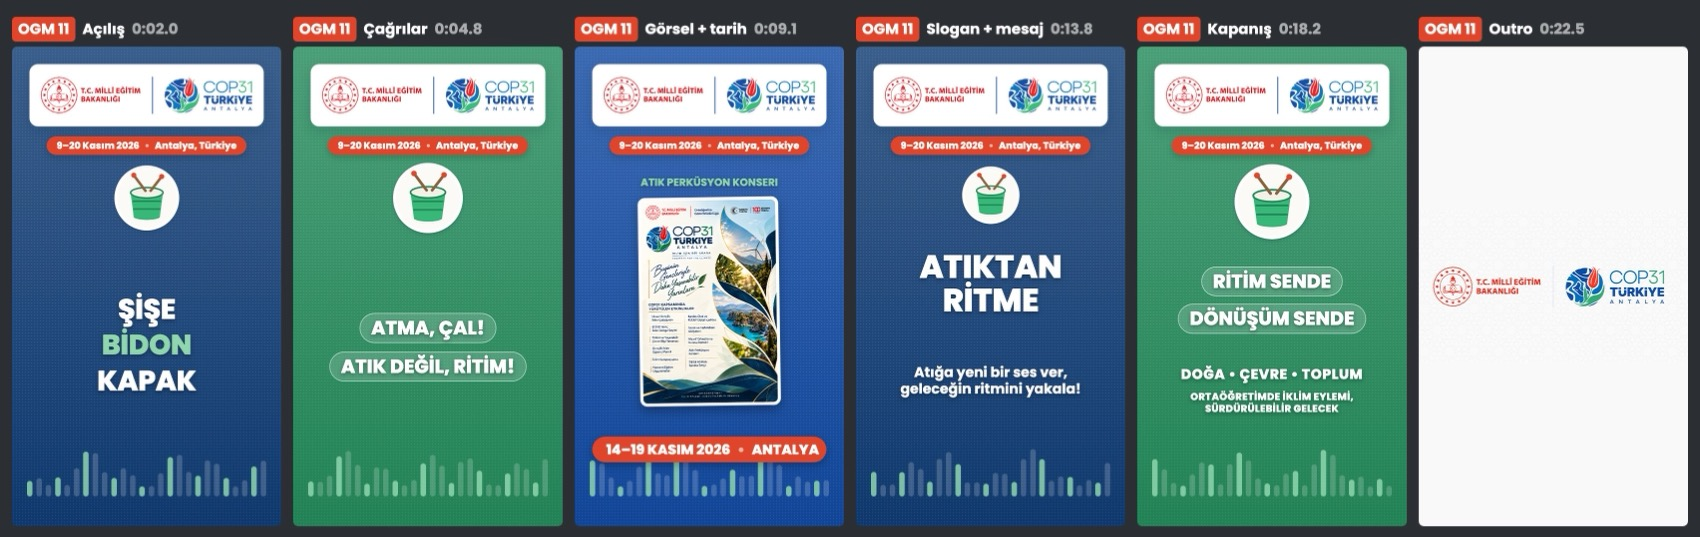
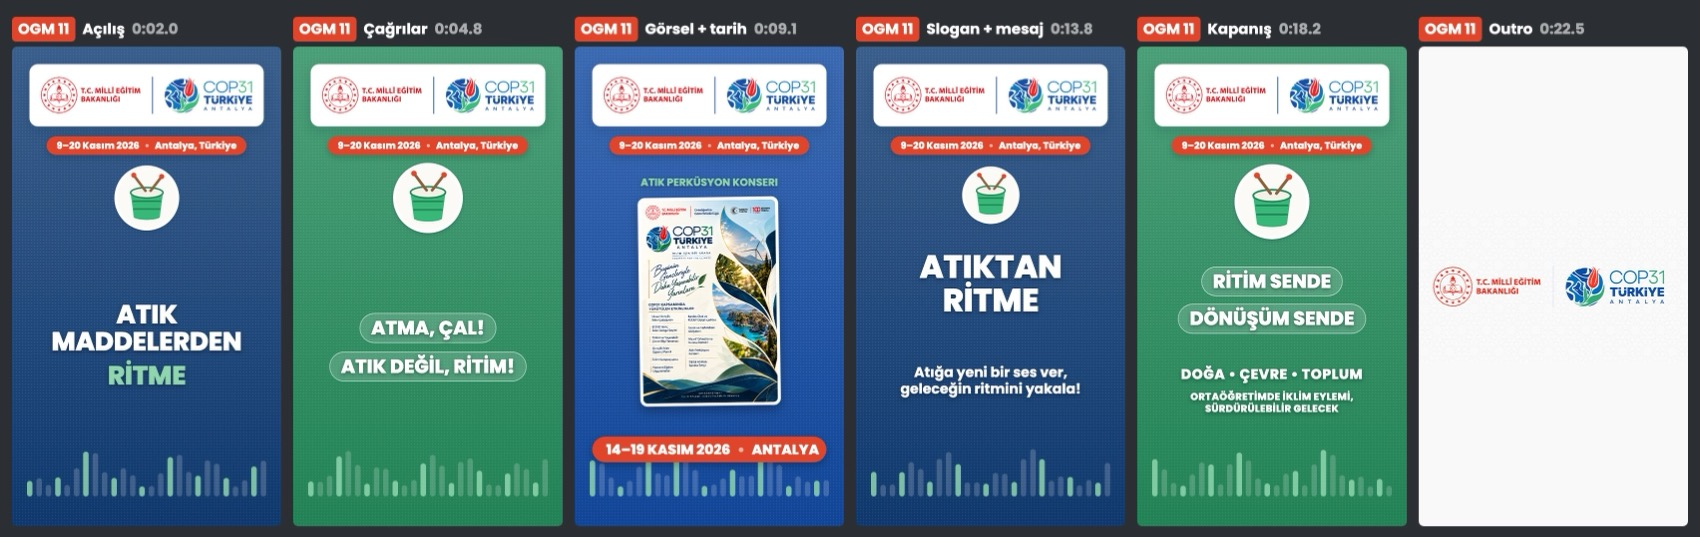
OGM 1. revizesi: 2,4,5,6,7,8,9,11,12 metin ve tarih düzeltmeleri

Changed region(s): [[0.0312, 0.5363, 0.1559, 0.7449]]

diff --git a/index.html b/index.html
@@ -101,14 +101,14 @@ button, .wa { border:0; border-radius:10px; padding:12px 16px; font:inherit; fon
   <div class="resim"><a href="paftalar/pafta-2.jpg" target="_blank" rel="noopener"><img src="paftalar/pafta-2.jpg" alt="2 · TABIAT VE YAŞANABILIR ÇEVRE KULÜBÜ — altı an" loading="lazy"></a></div>
   <p class="aciklama">Soldan sağa: açılış, çağrılar, görsel ve tarih, slogan ve mesaj, kapanış, logolar. Büyütmek için görsele tıklayın.<span class="kaydir"> Görseli yana kaydırabilirsiniz.</span></p>
   <ol>
-    <li>Açılış: YENİ KULÜP • TÜM OKULLARIMIZDA</li>
+    <li>Açılış: YENİDEN YAPILANDIRILMIŞ KULÜP • TÜM OKULLARIMIZDA</li>
     <li>Çağrılar: KATIL! • HAREKETE GEÇ!</li>
     <li>Görsel: Kulüp tanıtım görseli veya okul kulüp etkinliklerinden fotoğraflar — <b>klasörde bu etkinliğin afişi olmadığından genel COP31 OGM afişi kullanıldı</b>; tarih bandı: 9–20 KASIM 2026 • ANTALYA, TÜRKİYE</li>
     <li>Ana slogan: OKULDAN DOĞAYA; ekran mesajı: Okulunda başla, doğa için harekete geç!</li>
     <li>Kapanış: ADIM SENDE / DOĞA SENDE + “DOĞA • ÇEVRE • TOPLUM”</li>
     <li>MEB ve COP31 logoları</li>
   </ol>
-  <div class="ses"><b>Seslendirme metni</b>Yeni kulüp, tüm okullarımızda! Katıl! Harekete geç! Dokuz - yirmi Kasım iki bin yirmi altı, Antalya, Türkiye. Okuldan doğaya! Okulunda başla, doğa için harekete geç! Adım sende, doğa sende!</div>
+  <div class="ses"><b>Seslendirme metni</b>Yeniden yapılandırılmış kulüp, tüm okullarımızda! Katıl! Harekete geç! Dokuz - yirmi Kasım iki bin yirmi altı, Antalya, Türkiye. Okuldan doğaya! Okulunda başla, doğa için harekete geç! Adım sende, doğa sende!</div>
   <div class="karar">
     <label class="sec onay"><input type="radio" id="k2o" name="k2" value="onay"> Onaylıyorum</label>
     <label class="sec duz"><input type="radio" id="k2d" name="k2" value="duzeltme"> Düzeltme istiyorum</label>
@@ -144,11 +144,11 @@ button, .wa { border:0; border-radius:10px; padding:12px 16px; font:inherit; fon
     <li>Açılış: OKUL OKULA • EL ELE</li>
     <li>Çağrılar: PAYLAŞ! • ÖRNEK OL!</li>
     <li>Görsel: Kardeş okul etkinlik fotoğrafları ve KÜDEP dijital içerik ekran görüntüleri; tarih bandı: 9–20 KASIM 2026 • ANTALYA, TÜRKİYE</li>
-    <li>Ana slogan: BİRLİKTE ÖĞREN, BİRLİKTE KORU; ekran mesajı: Okullar buluşsun, doğa için dayanışma büyüsün! / Dijitalde öğren, yaşamda uygula, çevrene örnek ol!</li>
+    <li>Ana slogan: BİRLİKTE ÖĞREN, BİRLİKTE KORU; ekran mesajı: Uluslararası okullar buluşsun, doğa için dayanışma büyüsün! / Dijitalde öğren, yaşamda uygula, çevrene örnek ol!</li>
     <li>Kapanış: DAYANIŞMA SENDE / ÖRNEK SENDE + “DOĞA • ÇEVRE • TOPLUM”</li>
     <li>MEB ve COP31 logoları</li>
   </ol>
-  <div class="ses"><b>Seslendirme metni</b>Okul okula, el ele! Paylaş! Örnek ol! Dokuz - yirmi Kasım iki bin yirmi altı, Antalya, Türkiye. Birlikte öğren, birlikte koru! Okullar buluşsun, doğa için dayanışma büyüsün! Dijitalde öğren, yaşamda uygula, çevrene örnek ol! Dayanışma sende, örnek sende!</div>
+  <div class="ses"><b>Seslendirme metni</b>Okul okula, el ele! Paylaş! Örnek ol! Dokuz - yirmi Kasım iki bin yirmi altı, Antalya, Türkiye. Birlikte öğren, birlikte koru! Uluslararası okullar buluşsun, doğa için dayanışma büyüsün! Dijitalde öğren, yaşamda uygula, çevrene örnek ol! Dayanışma sende, örnek sende!</div>
   <div class="karar">
     <label class="sec onay"><input type="radio" id="k4o" name="k4" value="onay"> Onaylıyorum</label>
     <label class="sec duz"><input type="radio" id="k4d" name="k4" value="duzeltme"> Düzeltme istiyorum</label>
@@ -161,14 +161,14 @@ button, .wa { border:0; border-radius:10px; padding:12px 16px; font:inherit; fon
   <div class="resim"><a href="paftalar/pafta-5.jpg" target="_blank" rel="noopener"><img src="paftalar/pafta-5.jpg" alt="5 · TABIAT VE YAŞANABILIR ÇEVRE BILGI YARIŞMASI — altı an" loading="lazy"></a></div>
   <p class="aciklama">Soldan sağa: açılış, çağrılar, görsel ve tarih, slogan ve mesaj, kapanış, logolar. Büyütmek için görsele tıklayın.<span class="kaydir"> Görseli yana kaydırabilirsiniz.</span></p>
   <ol>
-    <li>Açılış: BÖLGEDEN FİNALE • 4 KİŞİLİK TAKIMLAR</li>
-    <li>Çağrılar: TABİATI TANI! • YARINI KORU!</li>
+    <li>Açılış: TABİATI TANI!</li>
+    <li>Çağrılar: YARINI KORU!</li>
     <li>Görsel: Yarışma afişi; varsa bölge aşamalarından fotoğraflar; tarih bandı: 18 KASIM 2026 • FİNAL • ANTALYA</li>
     <li>Ana slogan: BİLGİYLE KORUNAN TABİAT; ekran mesajı: Bilginle yarış, doğanın geleceğine sahip çık!</li>
     <li>Kapanış: BİLGİ SENDE / YARIN SENDE + “DOĞA • ÇEVRE • TOPLUM”</li>
     <li>MEB ve COP31 logoları</li>
   </ol>
-  <div class="ses"><b>Seslendirme metni</b>Bölgeden finale, dört kişilik takımlar! Tabiatı tanı! Yarını koru! On sekiz Kasım iki bin yirmi altı, final, Antalya. Bilgiyle korunan tabiat! Bilginle yarış, doğanın geleceğine sahip çık! Bilgi sende, yarın sende!</div>
+  <div class="ses"><b>Seslendirme metni</b>Tabiatı tanı! Yarını koru! On sekiz Kasım iki bin yirmi altı, final, Antalya. Bilgiyle korunan tabiat! Bilginle yarış, doğanın geleceğine sahip çık! Bilgi sende, yarın sende!</div>
   <div class="karar">
     <label class="sec onay"><input type="radio" id="k5o" name="k5" value="onay"> Onaylıyorum</label>
     <label class="sec duz"><input type="radio" id="k5d" name="k5" value="duzeltme"> Düzeltme istiyorum</label>
@@ -176,9 +176,9 @@ button, .wa { border:0; border-radius:10px; padding:12px 16px; font:inherit; fon
   <textarea id="n5" name="n5" placeholder="Not (isteğe bağlı)"></textarea>
   <div class="yanitlar" id="y5"></div>
 </section>
-<section class="icerik" id="v6" data-no="6" data-ad="GENÇLIK İKLIM ÖĞRENCI PANELI VE İKLIM SEMPOZYUMU">
-  <div class="bas"><span class="no">6</span><div><h2>GENÇLIK İKLIM ÖĞRENCI PANELI VE İKLIM SEMPOZYUMU</h2><p class="kunye">Takvim / kurumsal · yaklaşık 28 sn · yalnız Türkçe</p></div></div>
-  <div class="resim"><a href="paftalar/pafta-6.jpg" target="_blank" rel="noopener"><img src="paftalar/pafta-6.jpg" alt="6 · GENÇLIK İKLIM ÖĞRENCI PANELI VE İKLIM SEMPOZYUMU — altı an" loading="lazy"></a></div>
+<section class="icerik" id="v6" data-no="6" data-ad="GENÇLIK İKLIM ÖĞRENCI PANELI">
+  <div class="bas"><span class="no">6</span><div><h2>GENÇLIK İKLIM ÖĞRENCI PANELI</h2><p class="kunye">Takvim / kurumsal · yaklaşık 28 sn · yalnız Türkçe</p></div></div>
+  <div class="resim"><a href="paftalar/pafta-6.jpg" target="_blank" rel="noopener"><img src="paftalar/pafta-6.jpg" alt="6 · GENÇLIK İKLIM ÖĞRENCI PANELI — altı an" loading="lazy"></a></div>
   <p class="aciklama">Soldan sağa: açılış, çağrılar, görsel ve tarih, slogan ve mesaj, kapanış, logolar. Büyütmek için görsele tıklayın.<span class="kaydir"> Görseli yana kaydırabilirsiniz.</span></p>
   <ol>
     <li>Açılış: 5 İL • 5 ÖĞRENCİ • 5 ÖĞRETMEN</li>
@@ -203,12 +203,12 @@ button, .wa { border:0; border-radius:10px; padding:12px 16px; font:inherit; fon
   <ol>
     <li>Açılış: 9 PROJE</li>
     <li>Çağrılar: SORGULA! TASARLA! ÜRET! • DOĞAYA ÇÖZÜM ÜRET!</li>
-    <li>Görsel: Harezmi proje fotoğrafları veya etkinlik afişi; tarih bandı: 13–19 KASIM 2026 • ANTALYA</li>
+    <li>Görsel: Harezmi proje fotoğrafları veya etkinlik afişi; tarih bandı: 9–20 KASIM 2026 • ANTALYA</li>
     <li>Ana slogan: BİLİMLE DOĞAYA ÇÖZÜM; ekran mesajı: Bilimle düşün, birlikte tasarla, iklim için üret!</li>
     <li>Kapanış: MERAK SENDE / ÇÖZÜM SENDE + “DOĞA • ÇEVRE • TOPLUM”</li>
     <li>MEB ve COP31 logoları</li>
   </ol>
-  <div class="ses"><b>Seslendirme metni</b>Dokuz proje! Sorgula! Tasarla! Üret! Doğaya çözüm üret! On üç - on dokuz Kasım iki bin yirmi altı, Antalya. Bilimle doğaya çözüm! Bilimle düşün, birlikte tasarla, iklim için üret! Merak sende, çözüm sende!</div>
+  <div class="ses"><b>Seslendirme metni</b>Dokuz proje! Sorgula! Tasarla! Üret! Doğaya çözüm üret! Dokuz - yirmi Kasım iki bin yirmi altı, Antalya. Bilimle doğaya çözüm! Bilimle düşün, birlikte tasarla, iklim için üret! Merak sende, çözüm sende!</div>
   <div class="karar">
     <label class="sec onay"><input type="radio" id="k7o" name="k7" value="onay"> Onaylıyorum</label>
     <label class="sec duz"><input type="radio" id="k7d" name="k7" value="duzeltme"> Düzeltme istiyorum</label>
@@ -221,14 +221,14 @@ button, .wa { border:0; border-radius:10px; padding:12px 16px; font:inherit; fon
   <div class="resim"><a href="paftalar/pafta-8.jpg" target="_blank" rel="noopener"><img src="paftalar/pafta-8.jpg" alt="8 · SANAT VE FARKINDALIK ATÖLYELERI — altı an" loading="lazy"></a></div>
   <p class="aciklama">Soldan sağa: açılış, çağrılar, görsel ve tarih, slogan ve mesaj, kapanış, logolar. Büyütmek için görsele tıklayın.<span class="kaydir"> Görseli yana kaydırabilirsiniz.</span></p>
   <ol>
-    <li>Açılış: KASTAMONU • ANTALYA</li>
+    <li>Açılış: SANAT VE FARKINDALIK • ATÖLYELERİ</li>
     <li>Çağrılar: İLHAM AL! • SANATLA ANLAT!</li>
     <li>Görsel: Kastamonu ve Antalya atölye çalışmalarından fotoğraflar; tarih bandı: 14–19 KASIM 2026 • MAARİF OKULU İKLİM DENEYİM ATÖLYESİ</li>
     <li>Ana slogan: SANATLA FARKINDALIK; ekran mesajı: Doğadan ilham al, sanatla anlat, farkındalık oluştur!</li>
     <li>Kapanış: İLHAM SENDE / FARKINDALIK SENDE + “DOĞA • ÇEVRE • TOPLUM”</li>
     <li>MEB ve COP31 logoları</li>
   </ol>
-  <div class="ses"><b>Seslendirme metni</b>Kastamonu, Antalya! İlham al! Sanatla anlat! On dört - on dokuz Kasım iki bin yirmi altı, Maarif Okulu İklim Deneyim Atölyesi. Sanatla farkındalık! Doğadan ilham al, sanatla anlat, farkındalık oluştur! İlham sende, farkındalık sende!</div>
+  <div class="ses"><b>Seslendirme metni</b>Sanat ve Farkındalık Atölyeleri! İlham al! Sanatla anlat! On dört - on dokuz Kasım iki bin yirmi altı, Maarif Okulu İklim Deneyim Atölyesi. Sanatla farkındalık! Doğadan ilham al, sanatla anlat, farkındalık oluştur! İlham sende, farkındalık sende!</div>
   <div class="karar">
     <label class="sec onay"><input type="radio" id="k8o" name="k8" value="onay"> Onaylıyorum</label>
     <label class="sec duz"><input type="radio" id="k8d" name="k8" value="duzeltme"> Düzeltme istiyorum</label>
@@ -241,14 +241,14 @@ button, .wa { border:0; border-radius:10px; padding:12px 16px; font:inherit; fon
   <div class="resim"><a href="paftalar/pafta-9.jpg" target="_blank" rel="noopener"><img src="paftalar/pafta-9.jpg" alt="9 · DIJITAL ATIKTAN SANATA SERGI — altı an" loading="lazy"></a></div>
   <p class="aciklama">Soldan sağa: açılış, çağrılar, görsel ve tarih, slogan ve mesaj, kapanış, logolar. Büyütmek için görsele tıklayın.<span class="kaydir"> Görseli yana kaydırabilirsiniz.</span></p>
   <ol>
-    <li>Açılış: KABLO • DEVRE • EKRAN</li>
+    <li>Açılış: SANAT • DİJİTAL ATIK • KOLAJ</li>
     <li>Çağrılar: SÖK! BİRLEŞTİR! DÖNÜŞTÜR!</li>
     <li>Görsel: Kolaj eserlerinin fotoğrafları veya sergi afişi; tarih bandı: 14–19 KASIM 2026 • MAARİF OKULU SERGİ ALANI</li>
     <li>Ana slogan: DİJİTAL ATIKTAN SANATA; ekran mesajı: Atıkları dönüştür, parçaları birleştir, sanatla iz bırak!</li>
     <li>Kapanış: SANAT SENDE / DEĞİŞİM SENDE + “DOĞA • ÇEVRE • TOPLUM”</li>
     <li>MEB ve COP31 logoları</li>
   </ol>
-  <div class="ses"><b>Seslendirme metni</b>Kablo, devre, ekran! Sök! Birleştir! Dönüştür! On dört - on dokuz Kasım iki bin yirmi altı, Maarif Okulu sergi alanı. Dijital atıktan sanata! Atıkları dönüştür, parçaları birleştir, sanatla iz bırak! Sanat sende, değişim sende!</div>
+  <div class="ses"><b>Seslendirme metni</b>Sanat, dijital atık, kolaj! Sök! Birleştir! Dönüştür! On dört - on dokuz Kasım iki bin yirmi altı, Maarif Okulu sergi alanı. Dijital atıktan sanata! Atıkları dönüştür, parçaları birleştir, sanatla iz bırak! Sanat sende, değişim sende!</div>
   <div class="karar">
     <label class="sec onay"><input type="radio" id="k9o" name="k9" value="onay"> Onaylıyorum</label>
     <label class="sec duz"><input type="radio" id="k9d" name="k9" value="duzeltme"> Düzeltme istiyorum</label>
@@ -281,14 +281,14 @@ button, .wa { border:0; border-radius:10px; padding:12px 16px; font:inherit; fon
   <div class="resim"><a href="paftalar/pafta-11.jpg" target="_blank" rel="noopener"><img src="paftalar/pafta-11.jpg" alt="11 · ATIK PERKÜSYON KONSERI — altı an" loading="lazy"></a></div>
   <p class="aciklama">Soldan sağa: açılış, çağrılar, görsel ve tarih, slogan ve mesaj, kapanış, logolar. Büyütmek için görsele tıklayın.<span class="kaydir"> Görseli yana kaydırabilirsiniz.</span></p>
   <ol>
-    <li>Açılış: ŞİŞE • BİDON • KAPAK</li>
+    <li>Açılış: ATIK MADDELERDEN • RİTME</li>
     <li>Çağrılar: ATMA, ÇAL! • ATIK DEĞİL, RİTİM!</li>
     <li>Görsel: Perküsyon grubunun fotoğrafı veya konser afişi — <b>klasörde bu etkinliğin afişi olmadığından genel COP31 OGM afişi kullanıldı</b>; tarih bandı: 14–19 KASIM 2026 • ANTALYA</li>
     <li>Ana slogan: ATIKTAN RİTME; ekran mesajı: Atığa yeni bir ses ver, geleceğin ritmini yakala!</li>
     <li>Kapanış: RİTİM SENDE / DÖNÜŞÜM SENDE + “DOĞA • ÇEVRE • TOPLUM”</li>
     <li>MEB ve COP31 logoları</li>
   </ol>
-  <div class="ses"><b>Seslendirme metni</b>Şişe, bidon, kapak! Atma, çal! Atık değil, ritim! On dört - on dokuz Kasım iki bin yirmi altı, Antalya. Atıktan ritme! Atığa yeni bir ses ver, geleceğin ritmini yakala! Ritim sende, dönüşüm sende!</div>
+  <div class="ses"><b>Seslendirme metni</b>Atık maddelerden ritme! Atma, çal! Atık değil, ritim! On dört - on dokuz Kasım iki bin yirmi altı, Antalya. Atıktan ritme! Atığa yeni bir ses ver, geleceğin ritmini yakala! Ritim sende, dönüşüm sende!</div>
   <div class="karar">
     <label class="sec onay"><input type="radio" id="k11o" name="k11" value="onay"> Onaylıyorum</label>
     <label class="sec duz"><input type="radio" id="k11d" name="k11" value="duzeltme"> Düzeltme istiyorum</label>
@@ -303,12 +303,12 @@ button, .wa { border:0; border-radius:10px; padding:12px 16px; font:inherit; fon
   <ol>
     <li>Açılış: 30 İL • 1 ORTAK BİLDİRGE</li>
     <li>Çağrılar: DÜŞÜN! TARTIŞ! ÖNER! • SESİNİ YÜKSELT!</li>
-    <li>Görsel: Çalıştay fotoğrafları ve bildirge kapak görselleri; tarih bandı: BİLDİRGELER: 17 KASIM 2026 • ANTALYA</li>
+    <li>Görsel: Çalıştay fotoğrafları ve bildirge kapak görselleri; tarih bandı: BİLDİRGELER: 19 KASIM 2026 • ANTALYA</li>
     <li>Ana slogan: GENÇ SESLER, ORTAK GELECEK; ekran mesajı: 30 ilden genç fikirler, iklim için ortak çözümler!</li>
     <li>Kapanış: SÖZ SENDE / GELECEK SENDE + “DOĞA • ÇEVRE • TOPLUM”</li>
     <li>MEB ve COP31 logoları</li>
   </ol>
-  <div class="ses"><b>Seslendirme metni</b>Otuz il, bir ortak bildirge! Düşün! Tartış! Öner! Sesini yükselt! Bildirgeler, on yedi Kasım iki bin yirmi altı, Antalya. Genç sesler, ortak gelecek! Otuz ilden genç fikirler, iklim için ortak çözümler! Söz sende, gelecek sende!</div>
+  <div class="ses"><b>Seslendirme metni</b>Otuz il, bir ortak bildirge! Düşün! Tartış! Öner! Sesini yükselt! Bildirgeler, on dokuz Kasım iki bin yirmi altı, Antalya. Genç sesler, ortak gelecek! Otuz ilden genç fikirler, iklim için ortak çözümler! Söz sende, gelecek sende!</div>
   <div class="karar">
     <label class="sec onay"><input type="radio" id="k12o" name="k12" value="onay"> Onaylıyorum</label>
     <label class="sec duz"><input type="radio" id="k12d" name="k12" value="duzeltme"> Düzeltme istiyorum</label>
